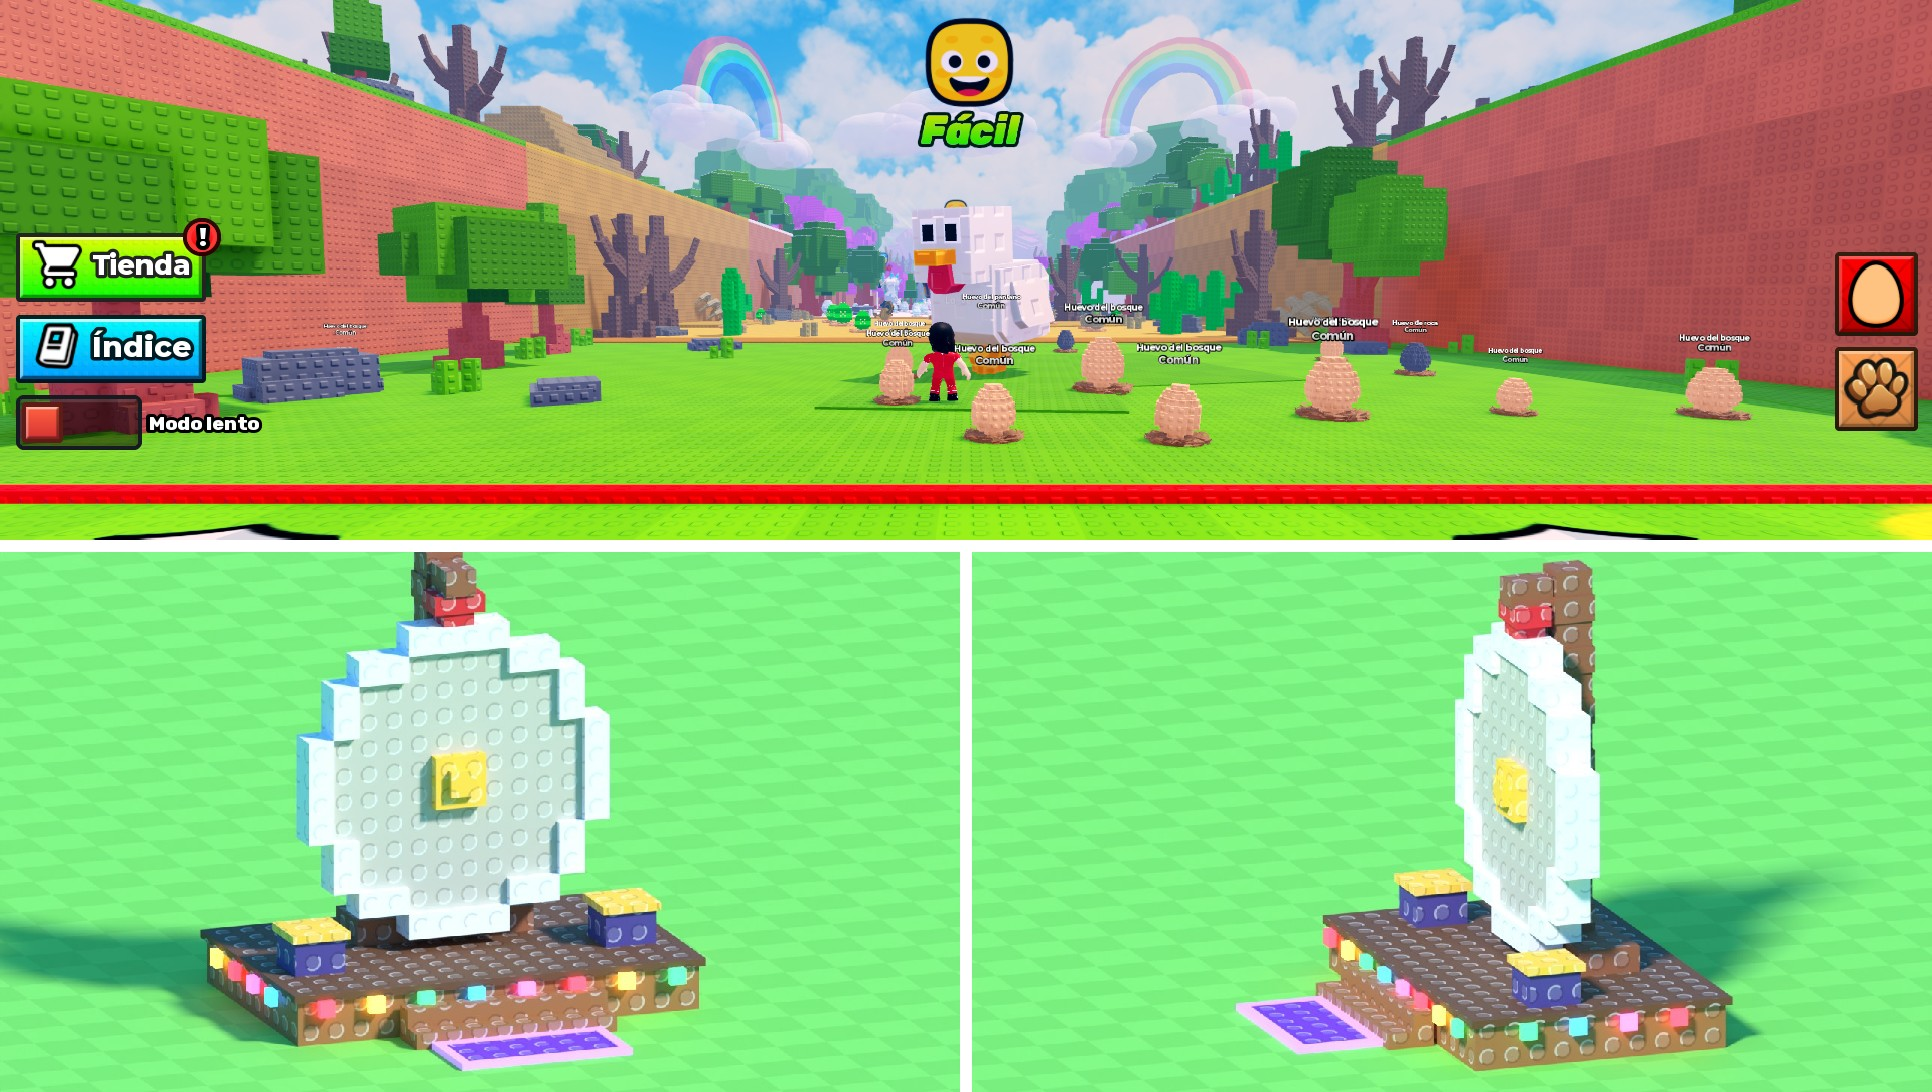
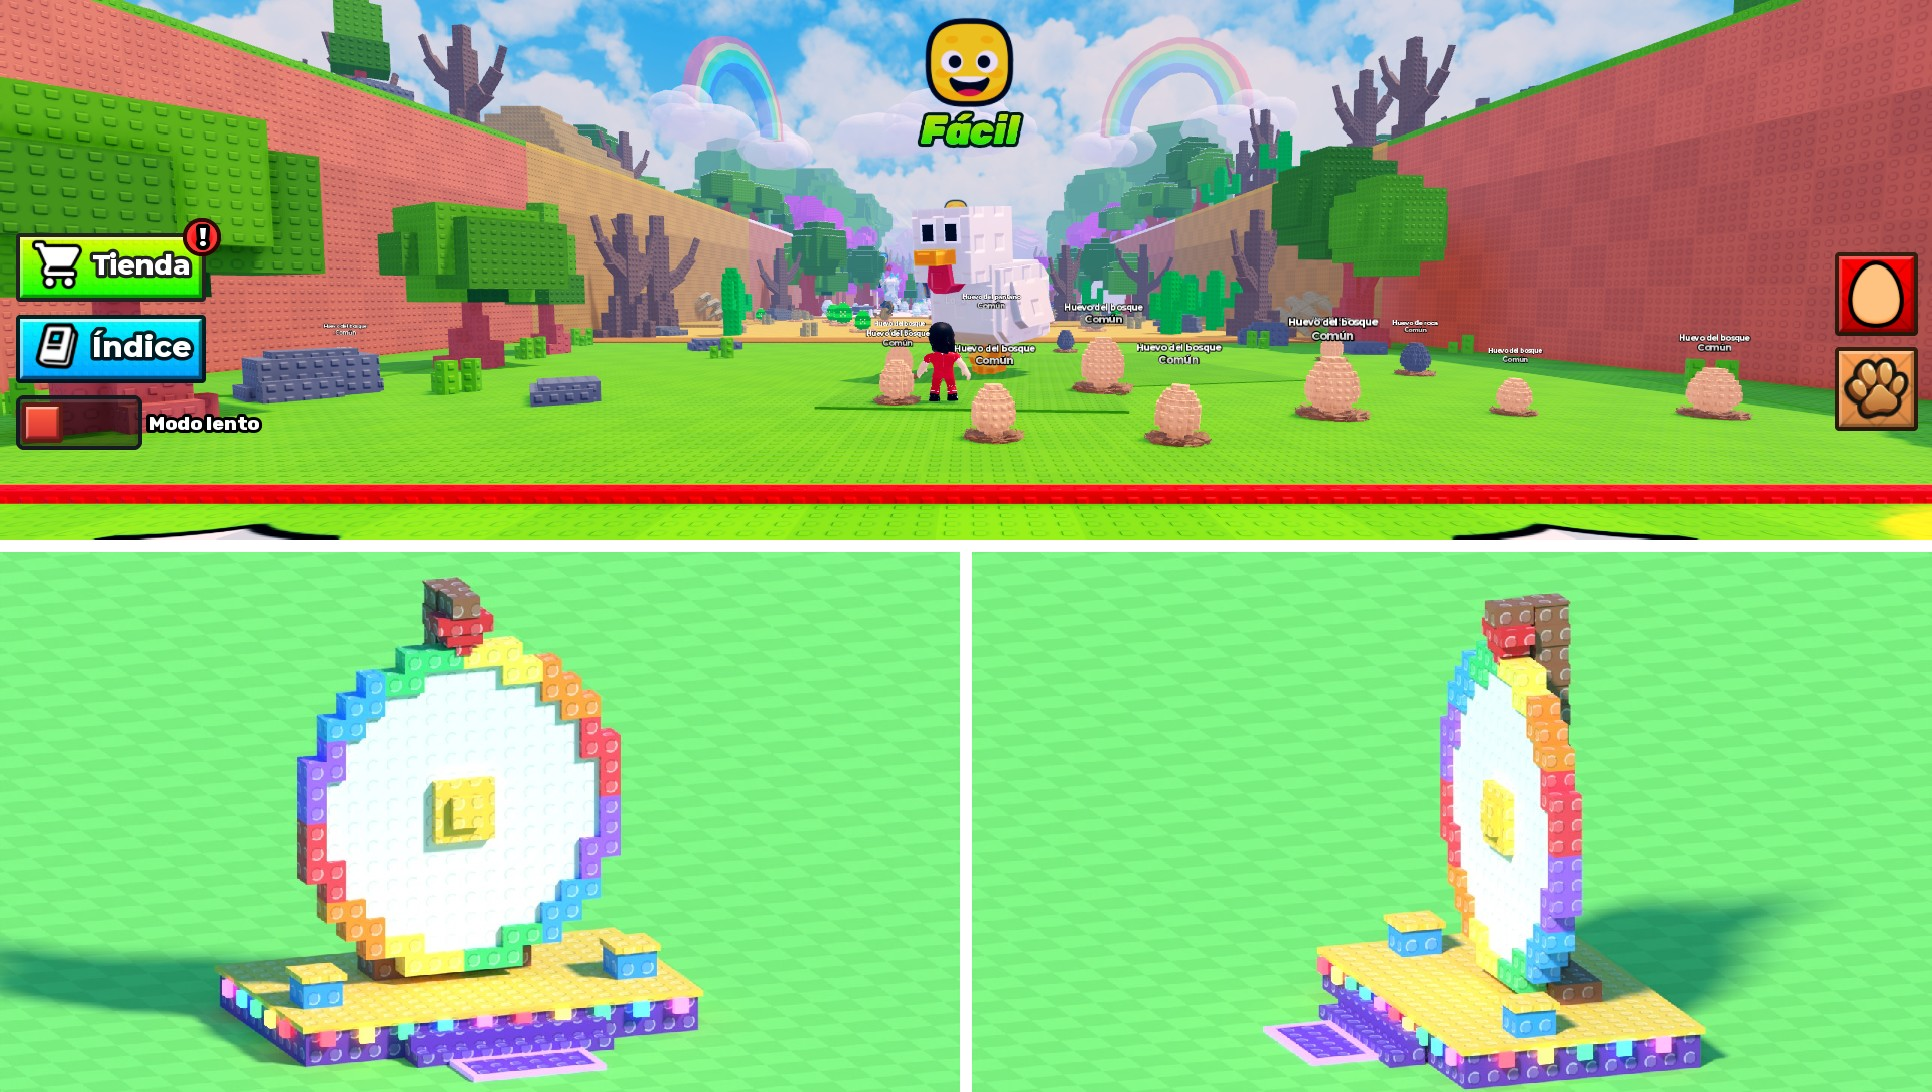
Forja Rápida: Ruleta_Mascotas más grande (rueda de 16 studs, escenario de 20 x 12) y colorida (borde de la rueda en 6 colores, escenario violeta y dorado), renders de prueba

Changed region(s): [[0.0, 0.4982, 0.3727, 0.9963], [0.6211, 0.4982, 0.9627, 1.0]]

diff --git a/forja-rapida/arte/scripts/lobby.py b/forja-rapida/arte/scripts/lobby.py
@@ -43,11 +43,11 @@ Piezas:
                  registradora dorada de bloques con un botón verde adelante (donde se cobra).
                  Mallas Terreno, Borde, Camino, Lugares, Madera, Cartel, Caja, CajaDetalle y
                  Boton. Los pedestales no van incluidos.
-  Ruleta_Mascotas  escenario de bloques de 16 x 10 studs y 2 de alto con 2 escalones adelante
+  Ruleta_Mascotas  escenario violeta con borde dorado de 20 x 12 studs y 2 de alto con 2 escalones adelante
                  (salen 2 studs del frente) y alfombra violeta adelante de los escalones. Arriba,
-                 una rueda parada de 12 studs de diámetro sobre un soporte de ladrillo: la rueda
+                 una rueda parada de 16 studs de diámetro sobre un soporte de ladrillo: la rueda
                  es un vacío aparte "Rueda" con el pivote en su centro (el juego la hace girar
-                 alrededor de su eje, el Y de Blender) y sus mallas Rueda_Borde (bloques blancos),
+                 alrededor de su eje, el Y de Blender) y sus mallas Rueda_Borde<Color> (franjas de 6 colores),
                  Rueda_Cara (lisa y clara, sin porciones: el juego las dibuja según la chance de
                  cada mascota) y Rueda_Centro (dorado). Arriba, una flecha roja fija que apunta
                  al premio, colgada de un brazo del soporte. Focos de colores (Neon) en el borde
@@ -573,49 +573,58 @@ def parcela_render(studs):
 
 
 # --- Ruleta_Mascotas ------------------------------------------------------------------------
-# escenario de x -8 a 8, y -5 a 5; el frente es -y
+# escenario de x -10 a 10, y -6 a 6; el frente es -y
 
 COLORES_RULETA = {
-    "escenario": "#A86A3A",  # madera
-    "escenario_borde": "#6B4226",
+    "escenario": "#6B2FB0",  # violeta
+    "escenario_borde": "#FFC83D",  # dorado
     "ladrillo": COLORES_PUESTO["ladrillo"],
     "flecha": "#E8202C",
-    "pedestal": "#4B3F8F",
+    "pedestal": "#2E9CFF",
     "pedestal_tapa": "#FFC83D",
     "alfombra": "#7A2CFF",
     "alfombra_borde": "#C08CFF",  # brilla apenas
-    "borde_rueda": "#F4F6FF",
-    "cara_rueda": "#C9C2B2",  # el juego pinta las porciones encima
+    "cara_rueda": "#F4F1EA",  # lisa: el juego pinta las porciones encima
     "centro_rueda": "#FFC83D",
 }
 FOCOS = {"FocoRojo": "#FF3B4E", "FocoAmarillo": "#FFE14D", "FocoVerde": "#3BD16F", "FocoAzul": "#3DA8FF", "FocoRosa": "#FF5FD2"}
+# el borde de la rueda va en franjas de estos colores (una malla por color)
+BORDES = {"Rojo": "#FF3B4E", "Naranja": "#FF8C1F", "Amarillo": "#FFE14D", "Verde": "#3BD16F", "Azul": "#3DA8FF", "Violeta": "#A65BFF"}
 MAX["Ruleta_Mascotas"] = 6000
+ESC_X, ESC_Y = 10, 6
 ESCENARIO_ALTO = 2
-RUEDA_RADIO = 6
+RUEDA_RADIO = 8
 RUEDA_Z = ESCENARIO_ALTO + 0.5 + RUEDA_RADIO  # centro de la rueda (queda medio stud sobre el piso)
 RUEDA_Y = (-0.5, 0.5)  # espesor de la rueda
 
 
 def rueda(mats):
     """Vacío Rueda (pivote en el centro) con sus mallas armadas alrededor de (0, 0, 0)."""
-    borde, cara, centro = D.Malla(), D.Malla(), D.Malla()
+    import math
+
+    bordes = {n: D.Malla() for n in BORDES}
+    cara, centro = D.Malla(), D.Malla()
     r = RUEDA_RADIO
-    aro, disco = set(), set()
+    nombres = list(BORDES)
+    aro, disco = {n: set() for n in nombres}, set()
     for i in range(2 * r):
         for k in range(2 * r):
-            d = ((i + 0.5 - r) ** 2 + (k + 0.5 - r) ** 2) ** 0.5
-            if r - 1 <= d < r:
-                aro.add((i, 0, k))
-            elif d < r - 1:
+            x, z = i + 0.5 - r, k + 0.5 - r
+            d = math.hypot(x, z)
+            if r - 1.2 <= d < r:
+                franja = int((math.atan2(z, x) + math.pi) / (2 * math.pi) * 12) % len(nombres)
+                aro[nombres[franja]].add((i, 0, k))
+            elif d < r - 1.2:
                 disco.add((i, 0, k))
-    D.voxeles_malla(borde, aro, (1, 1.4, 1), (-r, RUEDA_Y[0] - 0.2, -r))
-    # la cara es un solo bloque fino por celda, metido en el aro
+    todas = set().union(*aro.values())
+    for n in nombres:
+        D.voxeles_malla(bordes[n], aro[n], (1, 1.4, 1), (-r, RUEDA_Y[0] - 0.2, -r), llenas=todas)
     D.voxeles_malla(cara, disco, (1, 0.8, 1), (-r, RUEDA_Y[0] + 0.1, -r))
-    centro.caja((-1, 1), (RUEDA_Y[0] - 0.4, RUEDA_Y[1] + 0.4), (-1, 1))
-    centro.caja((-0.5, 0.5), (RUEDA_Y[0] - 0.7, RUEDA_Y[0] - 0.4), (-0.5, 0.5), caras="xXyzZ")
+    centro.caja((-1.5, 1.5), (RUEDA_Y[0] - 0.4, RUEDA_Y[1] + 0.4), (-1.5, 1.5))
+    centro.caja((-0.75, 0.75), (RUEDA_Y[0] - 0.8, RUEDA_Y[0] - 0.4), (-0.75, 0.75), caras="xXyzZ")
     objs, conteo = D.mallas(
         [
-            ("Rueda_Borde", borde, mats["borde_rueda"]),
+            *((f"Rueda_Borde{n}", bordes[n], mats[f"borde{n}"]) for n in nombres),
             ("Rueda_Cara", cara, mats["cara_rueda"]),
             ("Rueda_Centro", centro, mats["centro_rueda"]),
         ],
@@ -636,43 +645,48 @@ def ruleta(mats):
     esc, eb, lad, fle, ped, pt, alf, ab = (D.Malla() for _ in range(8))
     focos = {n: D.Malla() for n in FOCOS}
     z = ESCENARIO_ALTO
-    esc.caja((-8, 8), (-5, 5), (0, z - 0.3), caras="xXyYZ")
-    eb.caja((-8.2, 8.2), (-5.2, 5.2), (z - 0.3, z))
+    esc.caja((-ESC_X, ESC_X), (-ESC_Y, ESC_Y), (0, z - 0.3), caras="xXyYZ")
+    eb.caja((-ESC_X - 0.2, ESC_X + 0.2), (-ESC_Y - 0.2, ESC_Y + 0.2), (z - 0.3, z))
     # 2 escalones adelante
-    esc.caja((-4, 4), (-6, -5.2), (0, 1.3), caras="xXyZ")
-    esc.caja((-4, 4), (-7, -6), (0, 0.6), caras="xXyZ")
+    esc.caja((-5, 5), (-ESC_Y - 1, -ESC_Y - 0.2), (0, 1.3), caras="xXyZ")
+    esc.caja((-5, 5), (-ESC_Y - 2, -ESC_Y - 1), (0, 0.6), caras="xXyZ")
     # soporte de ladrillo: base, columna atrás de la rueda y brazo de la flecha
-    lad.caja((-3.5, 3.5), (0.8, 3.2), (z, z + 1), caras="xXyYZ")
+    tope = RUEDA_Z + RUEDA_RADIO + 2.6
+    lad.caja((-4, 4), (0.8, 3.2), (z, z + 1), caras="xXyYZ")
     zc, i = z + 1, 0
-    while zc < RUEDA_Z + RUEDA_RADIO + 2.2 - 1e-6:  # columna de bloques de 1 stud
-        r = 0.8 if i % 2 == 0 else 0.72
-        lad.caja((-r, r), (1.6 - r, 1.6 + r), (zc, zc + 1), caras="xXyYzZ")
+    while zc < tope - 1e-6:  # columna de bloques de 1 stud
+        r = 0.9 if i % 2 == 0 else 0.82
+        lad.caja((-r, r), (1.8 - r, 1.8 + r), (zc, min(zc + 1, tope)), caras="xXyYzZ")
         zc += 1
         i += 1
-    lad.caja((-0.6, 0.6), (-0.9, 0.8), (RUEDA_Z + RUEDA_RADIO + 1.2, RUEDA_Z + RUEDA_RADIO + 2.2))
-    lad.caja((-0.4, 0.4), (0.8, 0.95), (RUEDA_Z - 0.4, RUEDA_Z + 0.4), caras="xXyzZ")  # eje
+    lad.caja((-0.7, 0.7), (-1.1, 0.9), (tope - 1, tope))
+    lad.caja((-0.5, 0.5), (0.8, 0.95), (RUEDA_Z - 0.5, RUEDA_Z + 0.5), caras="xXyzZ")  # eje
     # flecha roja que apunta para abajo, al premio
-    zt = RUEDA_Z + RUEDA_RADIO + 1.2
-    fle.caja((-1.0, 1.0), (-0.8, 0.6), (zt - 0.7, zt))
-    fle.caja((-0.6, 0.6), (-0.7, 0.5), (zt - 1.2, zt - 0.7), caras="xXyYz")
-    fle.caja((-0.25, 0.25), (-0.6, 0.4), (zt - 1.6, zt - 1.2), caras="xXyYz")
+    zt = tope - 1
+    fle.caja((-1.4, 1.4), (-1.0, 0.7), (zt - 0.8, zt))
+    fle.caja((-0.9, 0.9), (-0.9, 0.6), (zt - 1.4, zt - 0.8), caras="xXyYz")
+    fle.caja((-0.4, 0.4), (-0.8, 0.5), (zt - 1.9, zt - 1.4), caras="xXyYz")
     # focos en el borde del escenario (frente y costados), los colores en ronda
     nombres = list(FOCOS)
-    puntos = [(x, -5.2, "y") for x in range(-7, 8, 2)] + [(-8.2, y, "x") for y in range(-3, 5, 2)] + [(8.2, y, "X") for y in range(-3, 5, 2)]
+    puntos = (
+        [(x, -ESC_Y - 0.2, "y") for x in range(-9, 10, 2)]
+        + [(-ESC_X - 0.2, y, "x") for y in range(-4, 6, 2)]
+        + [(ESC_X + 0.2, y, "X") for y in range(-4, 6, 2)]
+    )
     for i, (x, y, cara) in enumerate(puntos):
         m = focos[nombres[i % len(nombres)]]
-        h = 0.3
+        h = 0.35
         if cara == "y":
-            m.caja((x - h, x + h), (y - 0.3, y), (z - 0.85, z - 0.25), caras="xXyzZ")
+            m.caja((x - h, x + h), (y - 0.3, y), (z - 0.95, z - 0.25), caras="xXyzZ")
         elif cara == "x":
-            m.caja((x - 0.3, x), (y - h, y + h), (z - 0.85, z - 0.25), caras="xyYzZ")
+            m.caja((x - 0.3, x), (y - h, y + h), (z - 0.95, z - 0.25), caras="xyYzZ")
         else:
-            m.caja((x, x + 0.3), (y - h, y + h), (z - 0.85, z - 0.25), caras="XyYzZ")
+            m.caja((x, x + 0.3), (y - h, y + h), (z - 0.95, z - 0.25), caras="XyYzZ")
     # 2 pedestales chiquitos a los costados
-    for x in (-6.2, 6.2):
-        ped.caja((x - 1, x + 1), (-2.5, -0.5), (z, z + 1.3), caras="xXyY")
-        pt.caja((x - 1.15, x + 1.15), (-2.65, -0.35), (z + 1.3, z + 1.6), caras="xXyYzZ")
-    alfombra(alf, ab, -10, -7.4)
+    for x in (-8, 8):
+        ped.caja((x - 1, x + 1), (-3, -1), (z, z + 1.3), caras="xXyY")
+        pt.caja((x - 1.15, x + 1.15), (-3.15, -0.85), (z + 1.3, z + 1.6), caras="xXyYzZ")
+    alfombra(alf, ab, -11, -8.4)
     piezas = [
         ("Escenario", esc, mats["escenario"]),
         ("EscenarioBorde", eb, mats["escenario_borde"]),
@@ -699,6 +713,8 @@ def mats_ruleta(studs=None):
     mats["cara_rueda"] = M.material("Ruleta_CaraRueda", COLORES_RULETA["cara_rueda"])  # lisa, sin studs
     for n, color in FOCOS.items():
         mats[n] = M.material(f"Ruleta_{n}", color, brillo=color, fuerza_brillo=3.0 if studs else 0)
+    for n, color in BORDES.items():
+        mats[f"borde{n}"] = D.material_studs(f"Ruleta_Borde{n}", color, studs) if studs else M.material(f"Ruleta_Borde{n}", color)
     return mats
 
 
@@ -711,7 +727,7 @@ PIEZAS = {
     "Tienda_Forja": (tienda_forja, mats_tienda, (0, -1.5, 9.5), 40, 12),
     "Pedestal_Exhibicion": (lambda s: pedestales(studs=s), lambda s=None: s, (0, -1.5, 1), 24, 25),
     "Parcela_Exhibicion": (parcela_render, lambda s=None: s, (0, -2, 1), 52, 35),
-    "Ruleta_Mascotas": (ruleta, mats_ruleta, (0, -3, 7.5), 36, 15),
+    "Ruleta_Mascotas": (ruleta, mats_ruleta, (0, -3, 10.5), 46, 15),
 }
 
 
